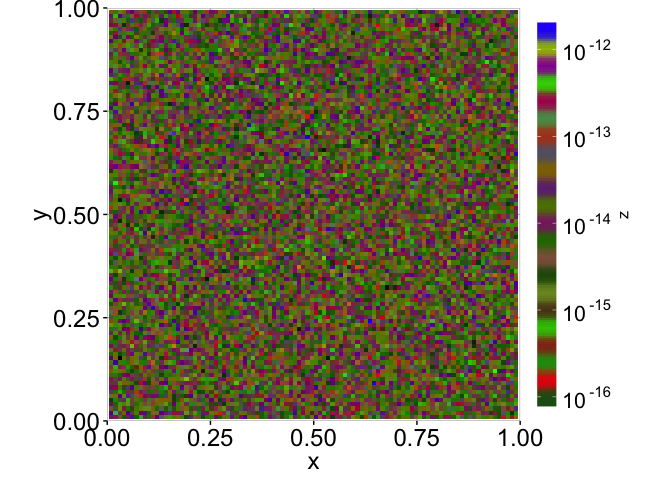
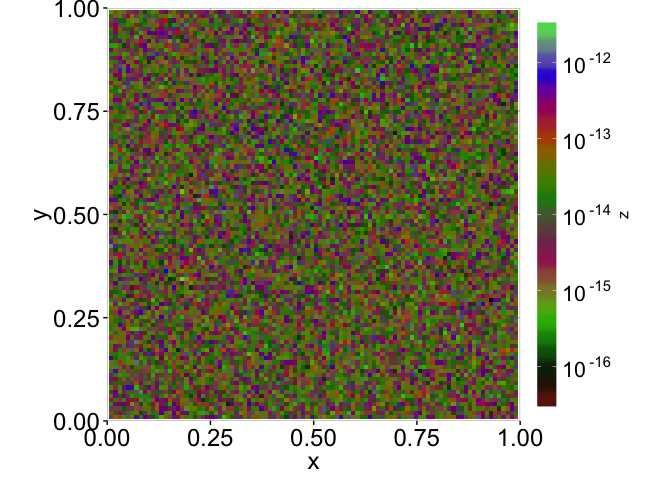
Implemented the spherical coordinates plot.

diff --git a/README.md b/README.md
@@ -173,7 +173,7 @@ By default, the title is centered both horizontally and vertically
 ztitlehjust the value to 0, and for the right (right and top)
 justification set it to 1.
 
-Move the title to the top:
+Move the title to the bottom:
 
     pltimggg.plot2D(x, y, img, zlog=TRUE, legend.direction = "vertical", zlab="values", ztitlehjust = 0)
 
@@ -226,3 +226,36 @@ exmple, to use the minimal theme set theme to theme\_minimal():
 More information can be obtained by reading the ggplot documentation. Or
 you can copy the definition of "mytheme" from the plotimggg.R and create
 your own custom theme.
+
+### Spherical coordinates
+
+We can also provide the data in spherical coordinates. The routine
+creates an internal representation in the form of polygons and calls the
+ggplot geom\_polygon() routines. This is slowe, but it provides
+reasonable results.
+
+First, we create an array with spherical coordinates:
+
+    # define array dimensions
+    snx <- 100
+    sny <- 400
+
+    # axes limits
+    sxlim = c(1e0, 2e0)
+    sylim = c(0e0, 2 * pi)
+
+    # compute axes
+    sx <- (0 : (snx - 1)) * (sxlim[2] - sxlim[1]) / snx + sxlim[1]
+    sy <- (0 : (sny - 1)) * (sylim[2] - sylim[1]) / sny + sylim[1]
+
+    # declare array
+    simg <- array(1e0, c(snx, sny))
+
+    # fill array with random numbers in a certain interval
+    simg <- 10^(apply(simg, c(1, 2), function(x) {rnorm(1, 0.5, 0.3) }) * 2e0) * 1e-15
+
+Now we call the routine with the parameter igeom set to 2:
+
+    pltimggg.plot2D(sx, sy, simg, legend.direction = "vertical", igeom = 2, zlog=TRUE)
+
+![](README_files/figure-markdown_strict/unnamed-chunk-22-1.png)
